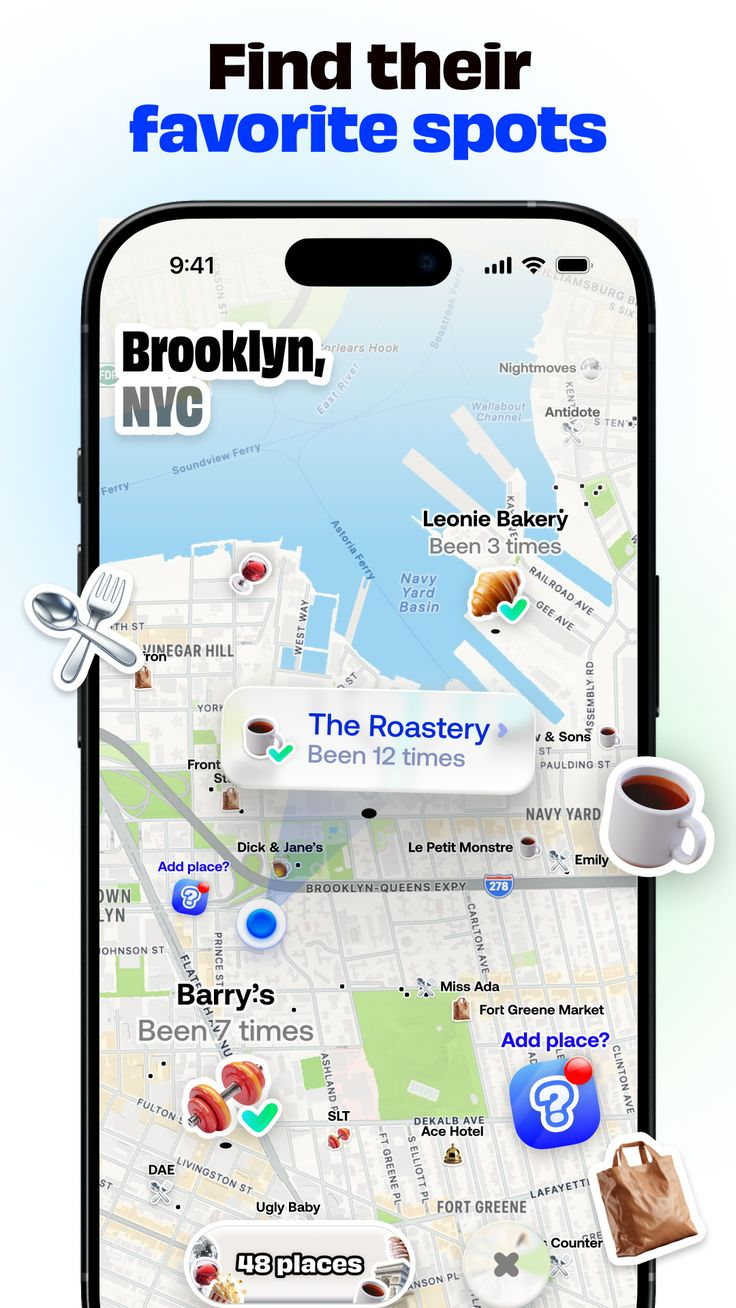
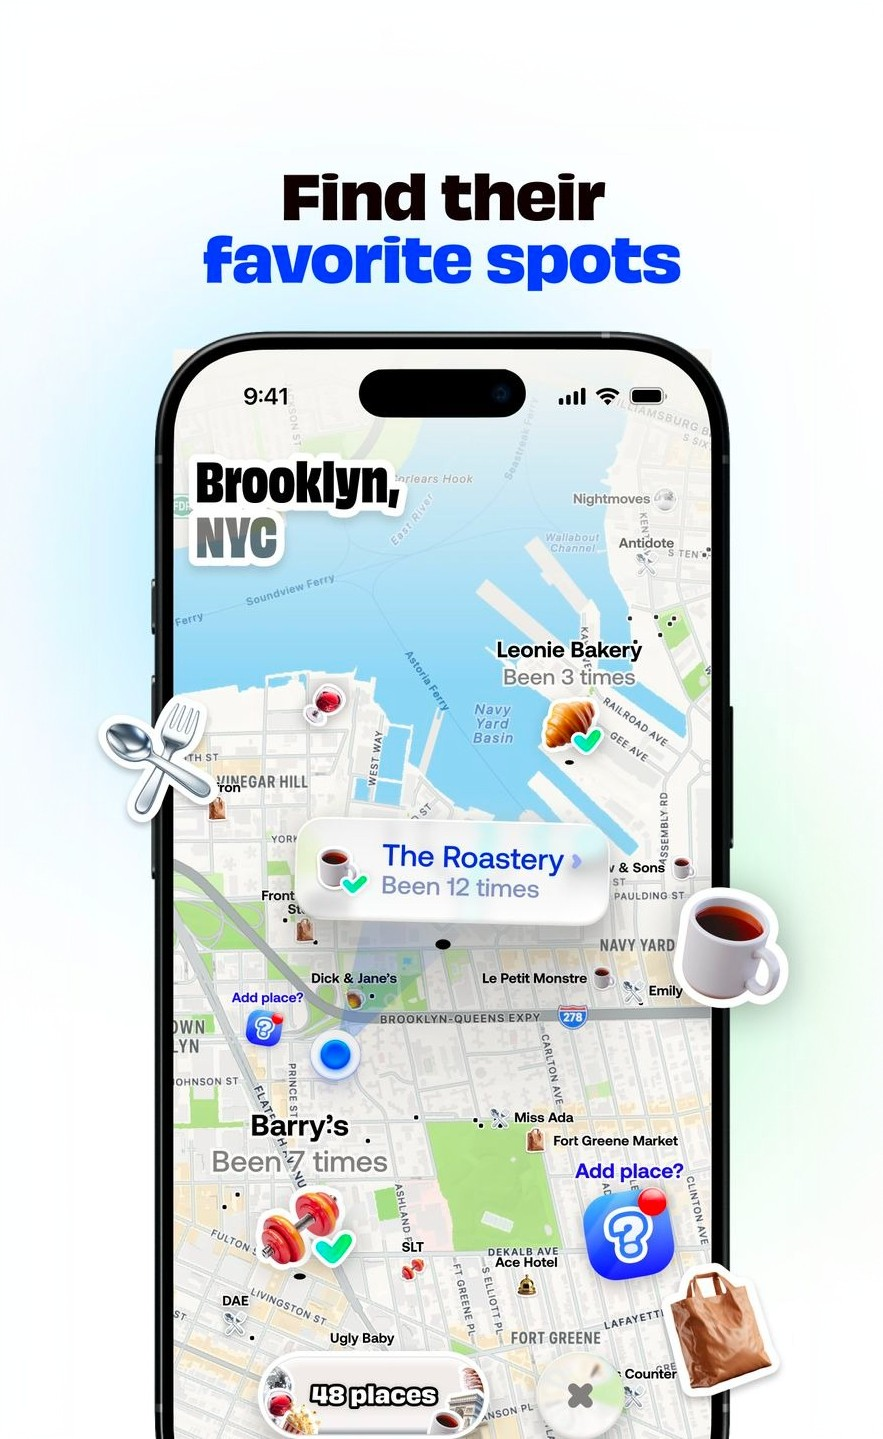
Update version to 1.1.0+1 in pubspec.yaml, add url_launcher dependency, and enhance onboarding and permission views for improved layout. Update privacy policy and settings views to reflect new versioning. Modify Podfile.lock to include url_launcher_ios.

diff --git a/lib/features/onboarding/onboarding_view.dart b/lib/features/onboarding/onboarding_view.dart
@@ -45,83 +45,78 @@ class _OnboardingViewState extends ConsumerState<OnboardingView> {
 
     return Scaffold(
       backgroundColor: Colors.white,
-      body: SafeArea(
-        bottom: false,
-        child: Column(
-          children: [
-            // Illustration area
-            Expanded(
-              flex: 6,
-              child: PageView.builder(
-                controller: _pageController,
-                itemCount: state.pages.length,
-                onPageChanged: (index) {
-                  ref.read(onboardingControllerProvider.notifier).setPage(index);
-                },
-                itemBuilder: (context, index) {
-                  return _OnboardingIllustration(tag: state.pages[index].illustrationTag);
-                },
-              ),
+      body: Column(
+        children: [
+          // Illustration area
+          Expanded(
+            flex: 6,
+            child: PageView.builder(
+              controller: _pageController,
+              itemCount: state.pages.length,
+              onPageChanged: (index) {
+                ref.read(onboardingControllerProvider.notifier).setPage(index);
+              },
+              itemBuilder: (context, index) {
+                return _OnboardingIllustration(tag: state.pages[index].illustrationTag);
+              },
             ),
-            // Bottom content area
-            Container(
-              color: Colors.white,
-              padding: const EdgeInsets.symmetric(horizontal: 16, vertical: 32),
-              child: Column(
-                crossAxisAlignment: CrossAxisAlignment.start,
-                children: [
-                  // Title + Arrow row
-                  Row(
-                    mainAxisAlignment: MainAxisAlignment.start,
-                    children: [
-                      Expanded(
-                        child: Column(
-                          crossAxisAlignment: CrossAxisAlignment.start,
-                          children: [
-                            AnimatedSwitcher(
-                              duration: const Duration(milliseconds: 300),
-                              child: Text(
-                                state.pages[state.currentPage].title,
-                                key: ValueKey(state.currentPage),
-                                style: const TextStyle(
-                                  fontSize: 24,
-                                  fontWeight: FontWeight.w800,
-                                  color: AppColors.textPrimary,
-                                  height: 1.3,
-                                ),
+          ),
+          // Bottom content area
+          Container(
+            color: Colors.white,
+            padding: const EdgeInsets.symmetric(horizontal: 16, vertical: 32),
+            child: Column(
+              crossAxisAlignment: CrossAxisAlignment.start,
+              children: [
+                // Title + Arrow row
+                Row(
+                  mainAxisAlignment: MainAxisAlignment.start,
+                  children: [
+                    Expanded(
+                      child: Column(
+                        crossAxisAlignment: CrossAxisAlignment.start,
+                        children: [
+                          AnimatedSwitcher(
+                            duration: const Duration(milliseconds: 300),
+                            child: Text(
+                              state.pages[state.currentPage].title,
+                              key: ValueKey(state.currentPage),
+                              style: const TextStyle(
+                                fontSize: 24,
+                                fontWeight: FontWeight.w800,
+                                color: AppColors.textPrimary,
+                                height: 1.3,
                               ),
                             ),
-                            const SizedBox(height: 10),
-                            // Subtitle
-                            AnimatedSwitcher(
-                              duration: const Duration(milliseconds: 300),
-                              child: Text(
-                                state.pages[state.currentPage].subtitle,
-                                key: ValueKey('sub_${state.currentPage}'),
-                                style: const TextStyle(fontSize: 15, color: AppColors.textSecondary, fontWeight: FontWeight.w400),
-                              ),
+                          ),
+                          const SizedBox(height: 10),
+                          // Subtitle
+                          AnimatedSwitcher(
+                            duration: const Duration(milliseconds: 300),
+                            child: Text(
+                              state.pages[state.currentPage].subtitle,
+                              key: ValueKey('sub_${state.currentPage}'),
+                              style: const TextStyle(fontSize: 15, color: AppColors.textSecondary, fontWeight: FontWeight.w400),
                             ),
-                          ],
-                        ),
+                          ),
+                        ],
                       ),
-                      const SizedBox(width: 10),
-                      _NextButton(
-                        onTap: _onNext,
-                        isLastPage: state.isLastPage,
-                        progress: (state.currentPage + 1) / state.pages.length,
-                      ),
-                    ],
-                  ),
-                  const SizedBox(height: 25),
-                  // Dots indicator
-                  Row(
-                    children: List.generate(state.pages.length, (index) => _DotIndicator(isActive: index == state.currentPage)),
-                  ),
-                ],
-              ),
+                    ),
+                    const SizedBox(width: 10),
+                    _NextButton(
+                      onTap: _onNext,
+                      isLastPage: state.isLastPage,
+                      progress: (state.currentPage + 1) / state.pages.length,
+                    ),
+                  ],
+                ),
+                const SizedBox(height: 25),
+                // Dots indicator
+                Row(children: List.generate(state.pages.length, (index) => _DotIndicator(isActive: index == state.currentPage))),
+              ],
             ),
-          ],
-        ),
+          ),
+        ],
       ),
     );
   }

diff --git a/lib/features/permissions/permission_view.dart b/lib/features/permissions/permission_view.dart
@@ -30,6 +30,7 @@ class PermissionView extends ConsumerWidget {
         ),
       ),
       body: SafeArea(
+        bottom: false,
         child: SingleChildScrollView(
           physics: const BouncingScrollPhysics(),
           child: ConstrainedBox(
@@ -72,7 +73,12 @@ class PermissionView extends ConsumerWidget {
 
                     /// Camera Permission
                     TogglePermissionTile(
-                      icon: _PermissionIcon(emoji: Icons.camera_alt, color: const Color(0xFFFFF3E0), size: width),
+                      icon: _PermissionIcon(
+                        icon: Icons.camera_alt,
+                        iconColor: const Color(0xFF3949AB),
+                        bgColor: const Color(0xFFE3F2FD),
+                        size: width,
+                      ),
                       title: 'Camera Access',
                       subtitle: 'Allows the app to capture photos and record videos',
                       value: state.cameraEnabled,
@@ -89,11 +95,16 @@ class PermissionView extends ConsumerWidget {
                       },
                     ),
 
-                    SizedBox(height: height * 0.025),
+                    SizedBox(height: height * 0.005),
 
                     /// Location Permission
                     TogglePermissionTile(
-                      icon: _PermissionIcon(emoji: Icons.location_on, color: const Color(0xFFE8F5E9), size: width),
+                      icon: _PermissionIcon(
+                        icon: Icons.location_on,
+                        iconColor: const Color(0xFF1B5E20),
+                        bgColor: const Color(0xFFE8F5E9),
+                        size: width,
+                      ),
                       title: 'Location Access',
                       subtitle: 'Used to add GPS location details and map stamps to captured photos and videos.',
                       value: state.locationEnabled,
@@ -110,11 +121,16 @@ class PermissionView extends ConsumerWidget {
                       },
                     ),
 
-                    SizedBox(height: height * 0.025),
+                    SizedBox(height: height * 0.005),
 
                     /// Gallery Permission
                     TogglePermissionTile(
-                      icon: _PermissionIcon(emoji: Icons.photo_library, color: const Color(0xFFFCE4EC), size: width),
+                      icon: _PermissionIcon(
+                        icon: Icons.photo_library,
+                        iconColor: const Color(0xFF880E4F),
+                        bgColor: const Color(0xFFFCE4EC),
+                        size: width,
+                      ),
                       title: 'Photo Library Access',
                       subtitle: 'Allows saving captured photos and videos to your device gallery.',
                       value: state.galleryEnabled,
@@ -155,7 +171,7 @@ class PermissionView extends ConsumerWidget {
                             },
                     ),
 
-                    SizedBox(height: height * 0.03),
+                    SizedBox(height: height * 0.06),
                   ],
                 ),
               ),
@@ -168,19 +184,20 @@ class PermissionView extends ConsumerWidget {
 }
 
 class _PermissionIcon extends StatelessWidget {
-  final IconData emoji;
-  final Color color;
+  final IconData icon;
+  final Color iconColor;
+  final Color bgColor;
   final double size;
 
-  const _PermissionIcon({required this.emoji, required this.color, required this.size});
+  const _PermissionIcon({required this.icon, required this.iconColor, required this.bgColor, required this.size});
 
   @override
   Widget build(BuildContext context) {
     return Container(
       width: size * 0.11,
       height: size * 0.11,
-      decoration: BoxDecoration(color: color, borderRadius: BorderRadius.circular(12)),
-      child: Center(child: Icon(emoji)),
+      decoration: BoxDecoration(color: bgColor, borderRadius: BorderRadius.circular(12)),
+      child: Center(child: Icon(icon, color: iconColor)),
     );
   }
 }

diff --git a/lib/features/settings/settings_view.dart b/lib/features/settings/settings_view.dart
@@ -1,9 +1,12 @@
+import 'dart:io';
+
 import 'package:flutter/material.dart';
 import 'package:flutter_riverpod/flutter_riverpod.dart';
 import 'package:gps_map_camera/core/constants/app_colors.dart';
 import 'package:gps_map_camera/features/camera/camera_controller.dart';
 import 'package:gps_map_camera/features/privacy_policy/privacy_policy_view.dart';
 import 'package:gps_map_camera/features/term_of_service/term_of_service_view.dart';
+import 'package:gps_map_camera/services/url_launcher_service.dart';
 
 class SettingsView extends ConsumerWidget {
   const SettingsView({super.key});
@@ -90,9 +93,19 @@ class SettingsView extends ConsumerWidget {
             title: 'About',
             width: width,
             children: [
-              _InfoTile(icon: Icons.info_outline_rounded, title: 'Version', value: '1.0.0', width: width),
+              _InfoTile(icon: Icons.info_outline_rounded, title: 'Version', value: '1.1.0', width: width),
 
-              _InfoTile(icon: Icons.star_rate_rounded, title: 'Rate Us', value: '', width: width),
+              _InfoTile(
+                icon: Icons.star_rate_rounded,
+                title: 'Rate Us',
+                value: '',
+                width: width,
+                onTap: () {
+                  if (Platform.isIOS) {
+                    AppLauncher.launch(AppLauncher.rateUsUrl);
+                  }
+                },
+              ),
 
               _InfoTile(
                 icon: Icons.privacy_tip_outlined,

diff --git a/lib/features/privacy_policy/privacy_policy_view.dart b/lib/features/privacy_policy/privacy_policy_view.dart
@@ -184,7 +184,7 @@ class _PrivacyPolicyViewState extends State<PrivacyPolicyView> with SingleTicker
 
   // ── meta chips ────────────────────────────────────────────────────────────
   Widget _buildMetaChips() {
-    final chips = [('calendar_today', 'Effective June 1, 2026'), ('tag', 'Version 1.0.0'), ('language', 'English')];
+    final chips = [('calendar_today', 'Effective June 1, 2026'), ('tag', 'Version 1.1.0'), ('language', 'English')];
     return Wrap(
       spacing: 8,
       runSpacing: 8,

diff --git a/lib/services/url_launcher_service.dart b/lib/services/url_launcher_service.dart
@@ -1,0 +1,18 @@
+import 'package:flutter/material.dart';
+import 'package:url_launcher/url_launcher.dart';
+
+class AppLauncher {
+  // URLs
+  static const String rateUsUrl = 'https://apps.apple.com/app/id6761419194?action=write-review';
+
+  // Common launcher method
+  static Future<void> launch(String url) async {
+    final Uri uri = Uri.parse(url);
+
+    try {
+      await launchUrl(uri, mode: LaunchMode.externalApplication);
+    } catch (e) {
+      debugPrint('Could not launch url: $e');
+    }
+  }
+}

diff --git a/lib/features/term_of_service/term_of_service_view.dart b/lib/features/term_of_service/term_of_service_view.dart
@@ -189,7 +189,7 @@ class _TermsOfServiceViewState extends State<TermsOfServiceView> with SingleTick
   Widget _buildMetaChips() {
     final chips = [
       (Icons.calendar_today_outlined, 'Effective June 1, 2026'),
-      (Icons.tag_rounded, 'Version 1.0.0'),
+      (Icons.tag_rounded, 'Version 1.1.0'),
       (Icons.language_rounded, 'English'),
     ];
     return Wrap(
